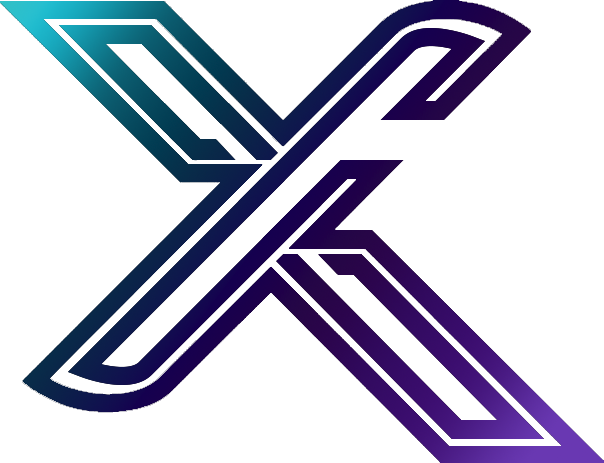
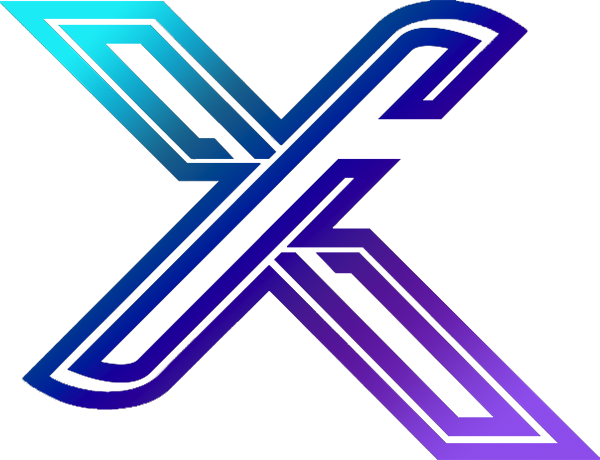
Atualização da responsividade do INDEX

diff --git a/public/html/index/css/responsive.css b/public/html/index/css/responsive.css
@@ -55,7 +55,7 @@
 	.header h1{ font-size:28px;}
 	.header{ padding:60px 0;}
 	.main-section{ padding:60px 0 70px;}
-	.main-nav{ display:none; position:absolute; left:0; width:100%; top:74px; margin:0 auto; flote : none; background:#fff;}
+	.main-nav{ display:none; position:absolute; left:0; width:100%; top:74px; margin:0 auto; float : none; background:#fff;}
 	.main-nav li{ display:block;}
 	.main-nav li.small-logo{ display:none;}
 	.main-nav li a{ display:block; padding:7px 32px; border-bottom:none;}
@@ -78,7 +78,7 @@
 	.main-section.contact{ padding:60px 0 70px}
 	.client-part-haead{ font-size:20px; line-height:30px;}
 	.link{ font-size:14px; padding:10px 25px;}
-	.logo{ width:100px;}
+	/*.logo{ width:100px;}*/
 	.main-section.contact{ background-size:contain;}
 	.Portfolio-nav li a{ padding:5px 16px;}
 	.Portfolio-nav li{ display:block;}

diff --git a/public/html/index/css/style.css b/public/html/index/css/style.css
@@ -93,6 +93,11 @@ p{
 	text-align:center;
 	background:url(../img/pw_maze_black_2X.png) left top repeat;
 	padding:280px 0;
+	display: flex;
+	flex-direction: column;
+	justify-content: center;
+	align-items: center;
+	height: 100vh;
 }
 .logo{
 	width:100%;

diff --git a/resources/views/index.blade.php b/resources/views/index.blade.php
@@ -33,7 +33,7 @@
 <header class="header" id="header"><!--header-start-->
 	<div class="container">
     	<figure class="logo animated fadeInDown delay-07s">
-        	<a href="#"><img src="img/sistema/logo_nexus.png" alt=""></a>	
+        	<a href="#"><img src="img/sistema/logo_nexus_c.png" alt=""></a>	
         </figure>	
         <h1 class="animated fadeInDown delay-07s">Bem Vindo ao Novo</h1>
         <ul class="we-create animated fadeInUp delay-1s">
